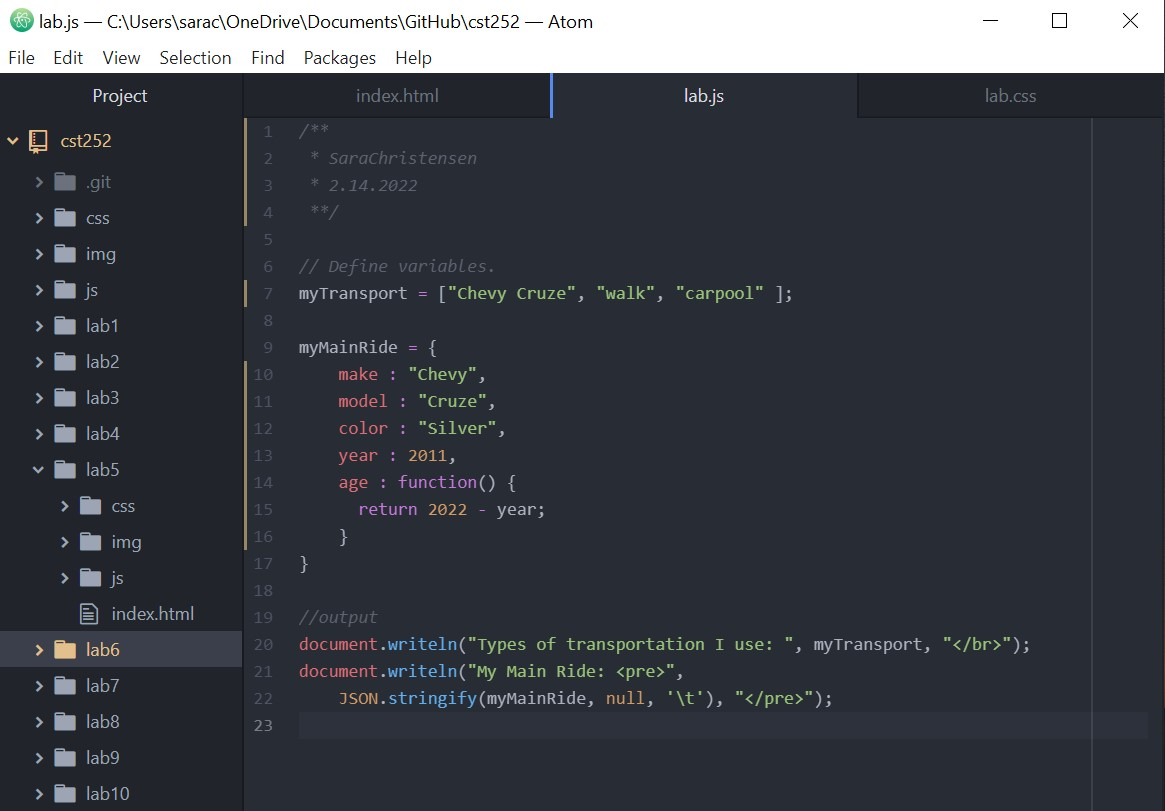
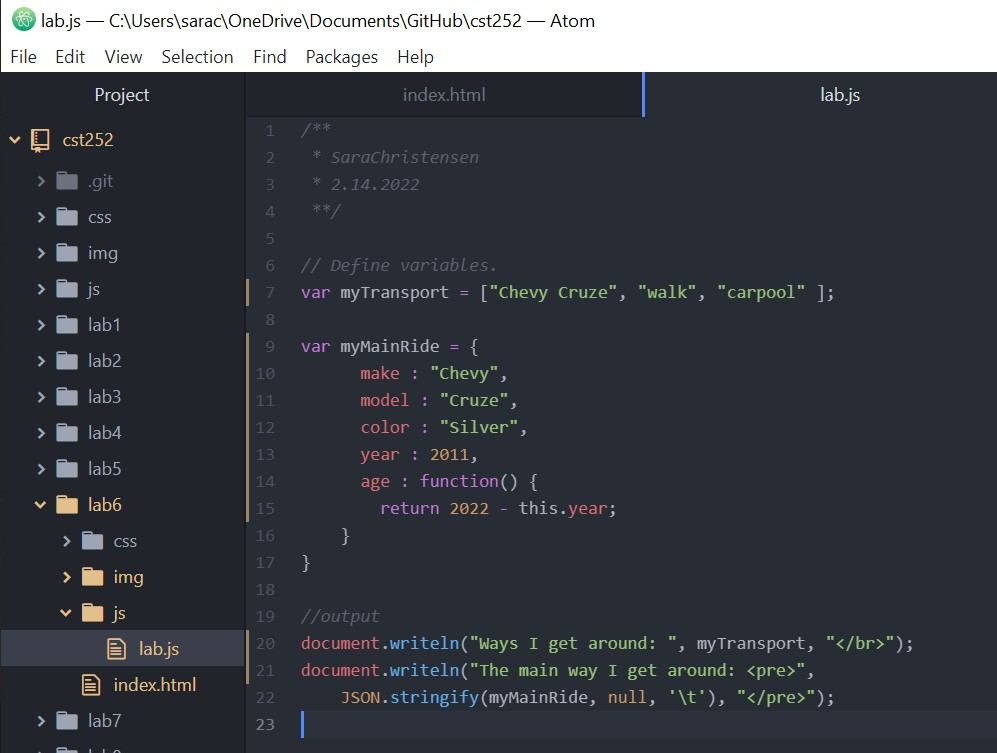
lab 6 fixes

diff --git a/lab6/js/lab.js b/lab6/js/lab.js
@@ -4,19 +4,19 @@
  **/
 
 // Define variables.
-myTransport = ["Chevy Cruze", "walk", "carpool" ];
+var myTransport = ["Chevy Cruze", "walk", "carpool" ];
 
-myMainRide = {
-    make : "Chevy",
-    model : "Cruze",
-    color : "Silver",
-    year : 2011,
-    age : function() {
-      return 2022 - year;
+var myMainRide = {
+      make : "Chevy",
+      model : "Cruze",
+      color : "silver",
+      year : 2011,
+      age : function() {
+        return 2022 - this.year;
     }
 }
 
 //output
-document.writeln("Types of transportation I use: ", myTransport, "</br>");
-document.writeln("My Main Ride: <pre>",
+document.writeln("Ways I get around: ", myTransport, "</br>");
+document.writeln("The main way I get around: <pre>",
     JSON.stringify(myMainRide, null, '\t'), "</pre>");

diff --git a/lab6/index.html b/lab6/index.html
@@ -38,7 +38,7 @@
 			 <div class="col">
 				 <section><h2>Subject</h2>
 					 	<p class="summary">The subject of this lab is to practice using arrays and objects in JavaScript.</p></section>
-							<img src="img/lab6.jpg">
+							<img src="img/console.jpg">
 			</div>
 			<div class="col">
 					<section><h2>Difficulties</h2>
@@ -50,7 +50,6 @@
 					<div class="col-sm-6">
 						<section><h2>Results</h2>
 							<p>I was able to define variables, creates an array, and name and define objects. </p>
-							<img src="img/lab6-2.jpg">
 					</div>
 					<div class="col-sm-6">
 						<h2>Script Output</h2>
